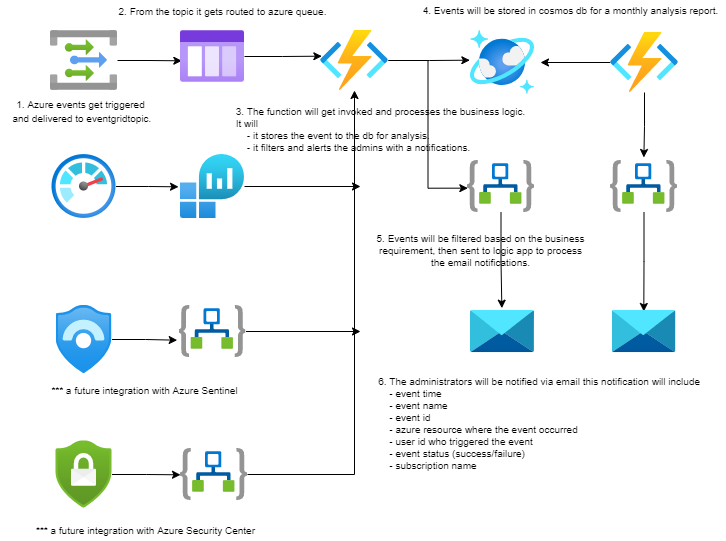
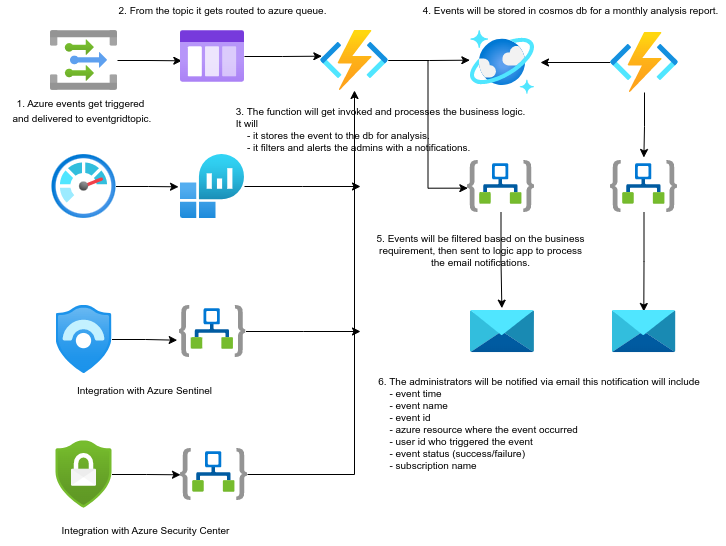
Commit

diff --git a/README.md b/README.md
@@ -1,52 +1,54 @@
 # VICGOV - Azure Alert, Monitor, Report Workflow
+
+## Table of Contents
+1. [Introduction](#1-introduction)
+   1. [Overview](#11-overview)
+2. [Logical Architecture](#2-logical-architecture)
+   1. [Logical System Component Overview](#21-logical-system-component-overview)
+
 ## 1. Introduction
-### 1.1	Overview
+### 1.1 Overview
 
-As a result of needing to improve on cloud monitoring solution, Hosting Platform Services has been working to resolve number of issues and centralizing source of azure monitor via a workflow described in the diagram 2.1. 
- 
-This document is intended to provide a high level overview of workflow how the events captures and sends out the notifications. 
- 
-Included in this report is a step by step detailed guide around where to look for troubleshooting.
+The VICGOV - Azure Alert, Monitor, Report Workflow was developed to improve the cloud monitoring solution and address various issues. This document provides a high-level overview of the workflow for capturing events and sending out notifications. It also includes a detailed troubleshooting guide.
 
-
-
-
-## 2 Logical Architecture
-### 2.1	Logical System Component Overview
+## 2. Logical Architecture
+### 2.1 Logical System Component Overview
 ![Figure 1: Logical Architecture Overview](./.images/workflow.png)
-1. Azure events get triggered and delivered to eventgridtopic.
-    - ![Figure 2.1: Step1](./.images/step1.png)
 
-2. From the topic it gets routed to azure queue.
+The logical architecture of the VICGOV - Azure Alert, Monitor, Report Workflow is as follows:
 
-    - ![Figure 2.2: Step2](./.images/step2.png)
+1. Azure events are triggered and delivered to an event grid topic.
+   - ![Figure 2.1: Step1](./.images/step1.png)
 
-3. The function will get invoked and processes the business logic.
-It will
-    - it stores the event to the db for analysis.
-    - it filters and alerts the admins with a notifications.
-    - ![Figure 2.3: Step3](./.images/step3.png)
+2. Events from the topic are routed to an Azure queue.
+   - ![Figure 2.2: Step2](./.images/step2.png)
 
-4. Events will be stored in cosmos db for a monthly analysis report.
-    - ![Figure 2.4: Step4](./.images/step4.png)
+3. A function is invoked to process the business logic. It performs the following actions:
+   - Stores the event in a database for analysis.
+   - Filters and alerts the admins with notifications.
+   - ![Figure 2.3: Step3](./.images/step3.png)
 
-5. Events will be filtered based on the business requirement, then sent to logic app to process the email notifications. 
-    - ![Figure 2.5: Step5](./.images/step5.png)
+4. Events are stored in Cosmos DB for a monthly analysis report.
+   - ![Figure 2.4: Step4](./.images/step4.png)
 
-6. The administrators will be notified via email this notification will include 
-    - event time 
-    - event name 
-    - event id 
-    - azure resource where the event occurred 
-    - user id who triggered the event 
-    - event status (success/failure) 
-    - subscription name
-    - ![Figure 2.6: Step6](./.images/step6.png)
+5. Events are filtered based on business requirements and sent to a logic app for processing email notifications.
+   - ![Figure 2.5: Step5](./.images/step5.png)
 
-7. Azure monitor will run kql queries for checking log analytics workspace for VM metrics. 
-    - ![Figure 2.7: Step7](./.images/step7.png)
+6. Administrators are notified via email, which includes the following information:
+   - Event time
+   - Event name
+   - Event ID
+   - Azure resource where the event occurred
+   - User ID who triggered the event
+   - Event status (success/failure)
+   - Subscription name
+   - ![Figure 2.6: Step6](./.images/step6.png)
 
-8. If the thrashold gets exceeded it will invoke the function for process.
-    - ![Figure 2.8: Step8](./.images/step8.png)
+7. Azure Monitor runs KQL queries to check the log analytics workspace for VM metrics.
+   - ![Figure 2.7: Step7](./.images/step7.png)
 
-9. Function will be triggered for processing.
+8. If the threshold is exceeded, it invokes the function for further processing.
+   - ![Figure 2.8: Step8](./.images/step8.png)
+
+9. The function is triggered for processing.
+
